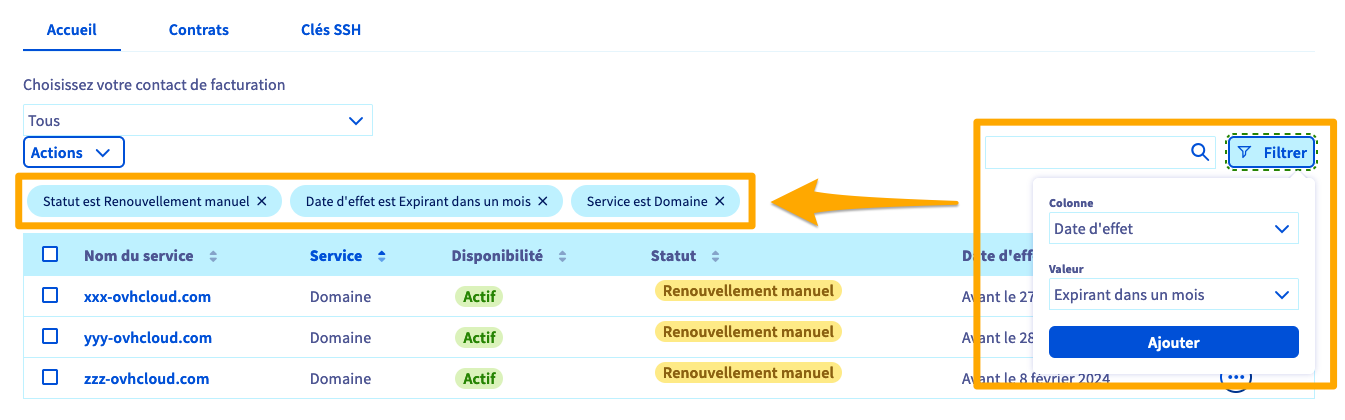
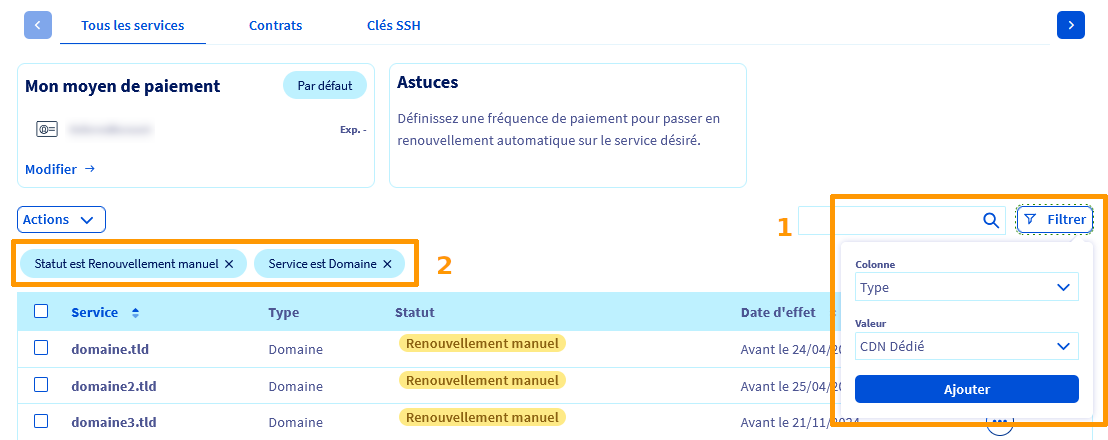
all FR done

diff --git a/pages/account_and_service_management/managing_billing_payments_and_services/how_to_use_automatic_renewal/guide.fr-ca.md b/pages/account_and_service_management/managing_billing_payments_and_services/how_to_use_automatic_renewal/guide.fr-ca.md
@@ -86,7 +86,7 @@ La page **Gestion de mes offres et services** contient un tableau de gestion de 
 > Des outils de tri, de filtrage et de recherche sont disponibles au-dessus du tableau.
 > Vous pouvez ainsi trier les colonnes par ordre croissant ou décroissant, rechercher le nom d'un de vos services ou encore appliquer un filtre pour n'afficher que certains de vos services selon les critères de votre choix.
 >
-> Vos critères de filtrage seront alors affichés au dessus du tableau. Voici un exemple de filtre permettant d'afficher les noms de domaines dont le renouvellement est manuel et dont la date de fin d'abonnement expire avant un mois.
+> Vos critères de filtrage seront alors affichés au dessus du tableau. Voici un exemple de filtre permettant d'afficher les noms de domaines en renouvellement manuel.
 >
 > ![manageautomaticrenewal](/pages/assets/screens/control_panel/product-selection/right-column/products-and-services/filters-fr.png){.thumbnail}
 

diff --git a/pages/account_and_service_management/managing_billing_payments_and_services/how_to_use_automatic_renewal/guide.fr-fr.md b/pages/account_and_service_management/managing_billing_payments_and_services/how_to_use_automatic_renewal/guide.fr-fr.md
@@ -86,7 +86,7 @@ La page **Gestion de mes offres et services** contient un tableau de gestion de 
 > Des outils de tri, de filtrage et de recherche sont disponibles au-dessus du tableau.
 > Vous pouvez ainsi trier les colonnes par ordre croissant ou décroissant, rechercher le nom d'un de vos services ou encore appliquer un filtre pour n'afficher que certains de vos services selon les critères de votre choix.
 >
-> Vos critères de filtrage seront alors affichés au dessus du tableau. Voici un exemple de filtre permettant d'afficher les noms de domaines dont le renouvellement est manuel et dont la date de fin d'abonnement expire avant un mois.
+> Vos critères de filtrage seront alors affichés au dessus du tableau. Voici un exemple de filtre permettant d'afficher les noms de domaines en renouvellement manuel.
 >
 > ![manageautomaticrenewal](/pages/assets/screens/control_panel/product-selection/right-column/products-and-services/filters-fr.png){.thumbnail}
 
